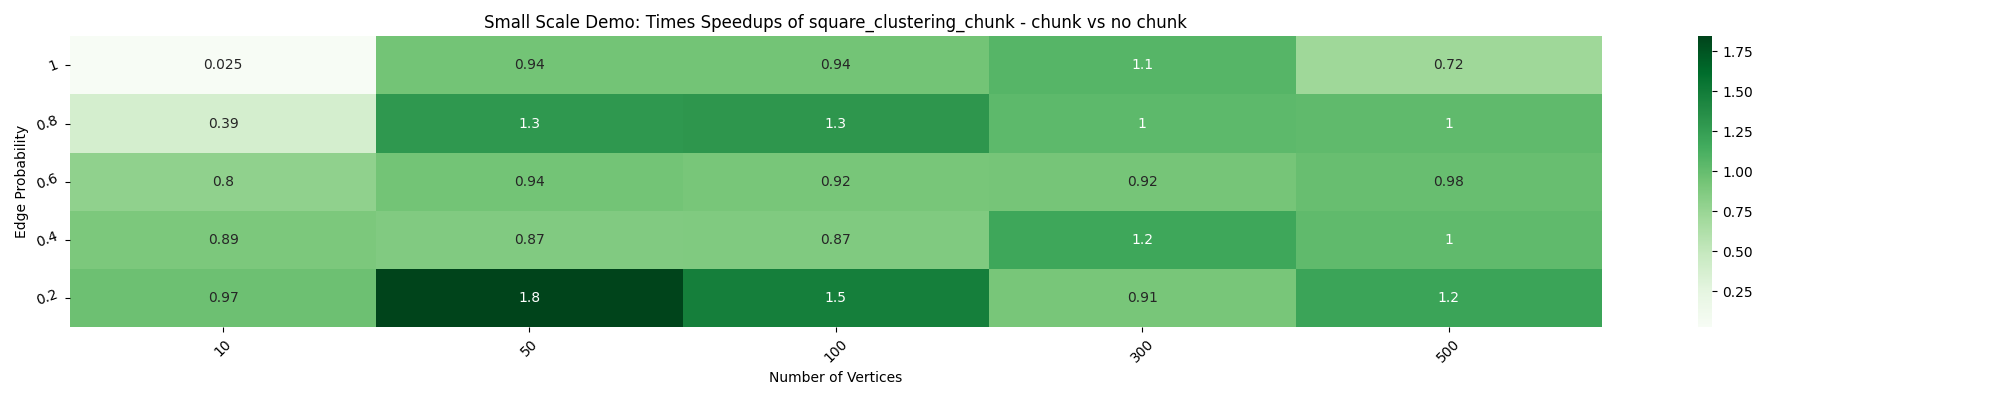
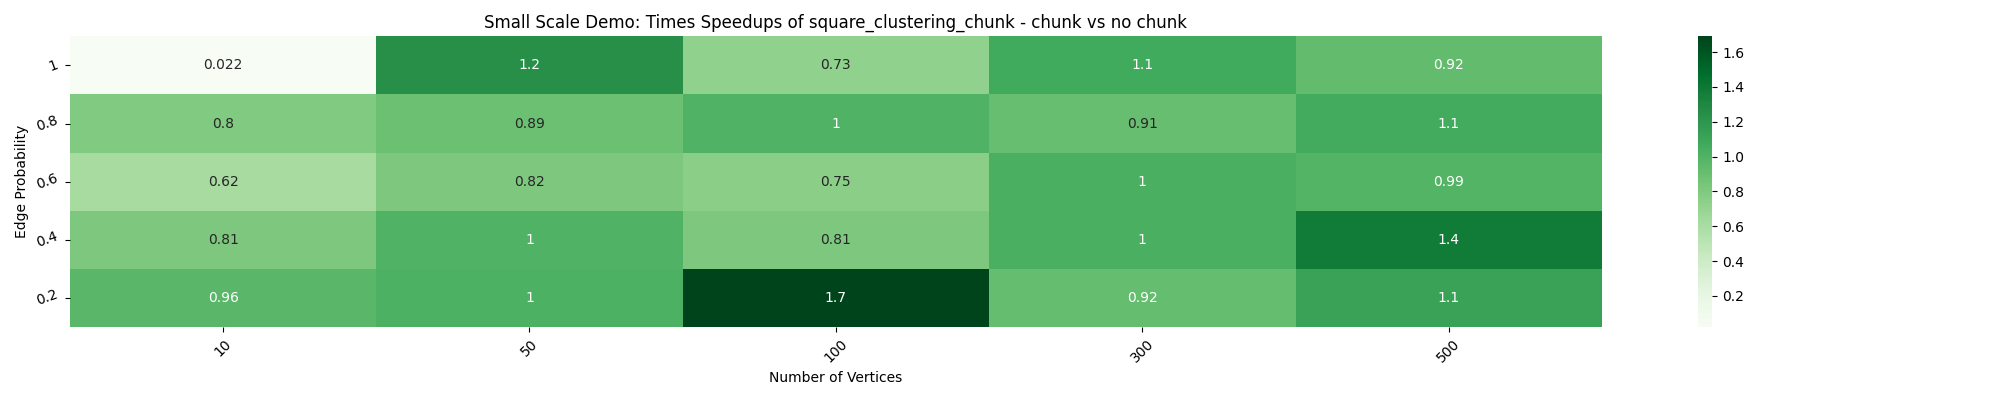
2 - trying different default chunking - similar speedups

diff --git a/nx_parallel/algorithms/cluster.py b/nx_parallel/algorithms/cluster.py
@@ -73,7 +73,7 @@ def square_clustering_chunk(G, nodes=None):
         node_iter = list(G.nbunch_iter(nodes))
 
     total_cores = nxp.cpu_count()
-    num_in_chunk = max(len(node_iter) // total_cores, 1)
+    num_in_chunk = max(min(len(node_iter) // total_cores, 10), 1)
     node_iter_chunks = nxp.chunks(node_iter, num_in_chunk)
 
     result = Parallel(n_jobs=total_cores)(
